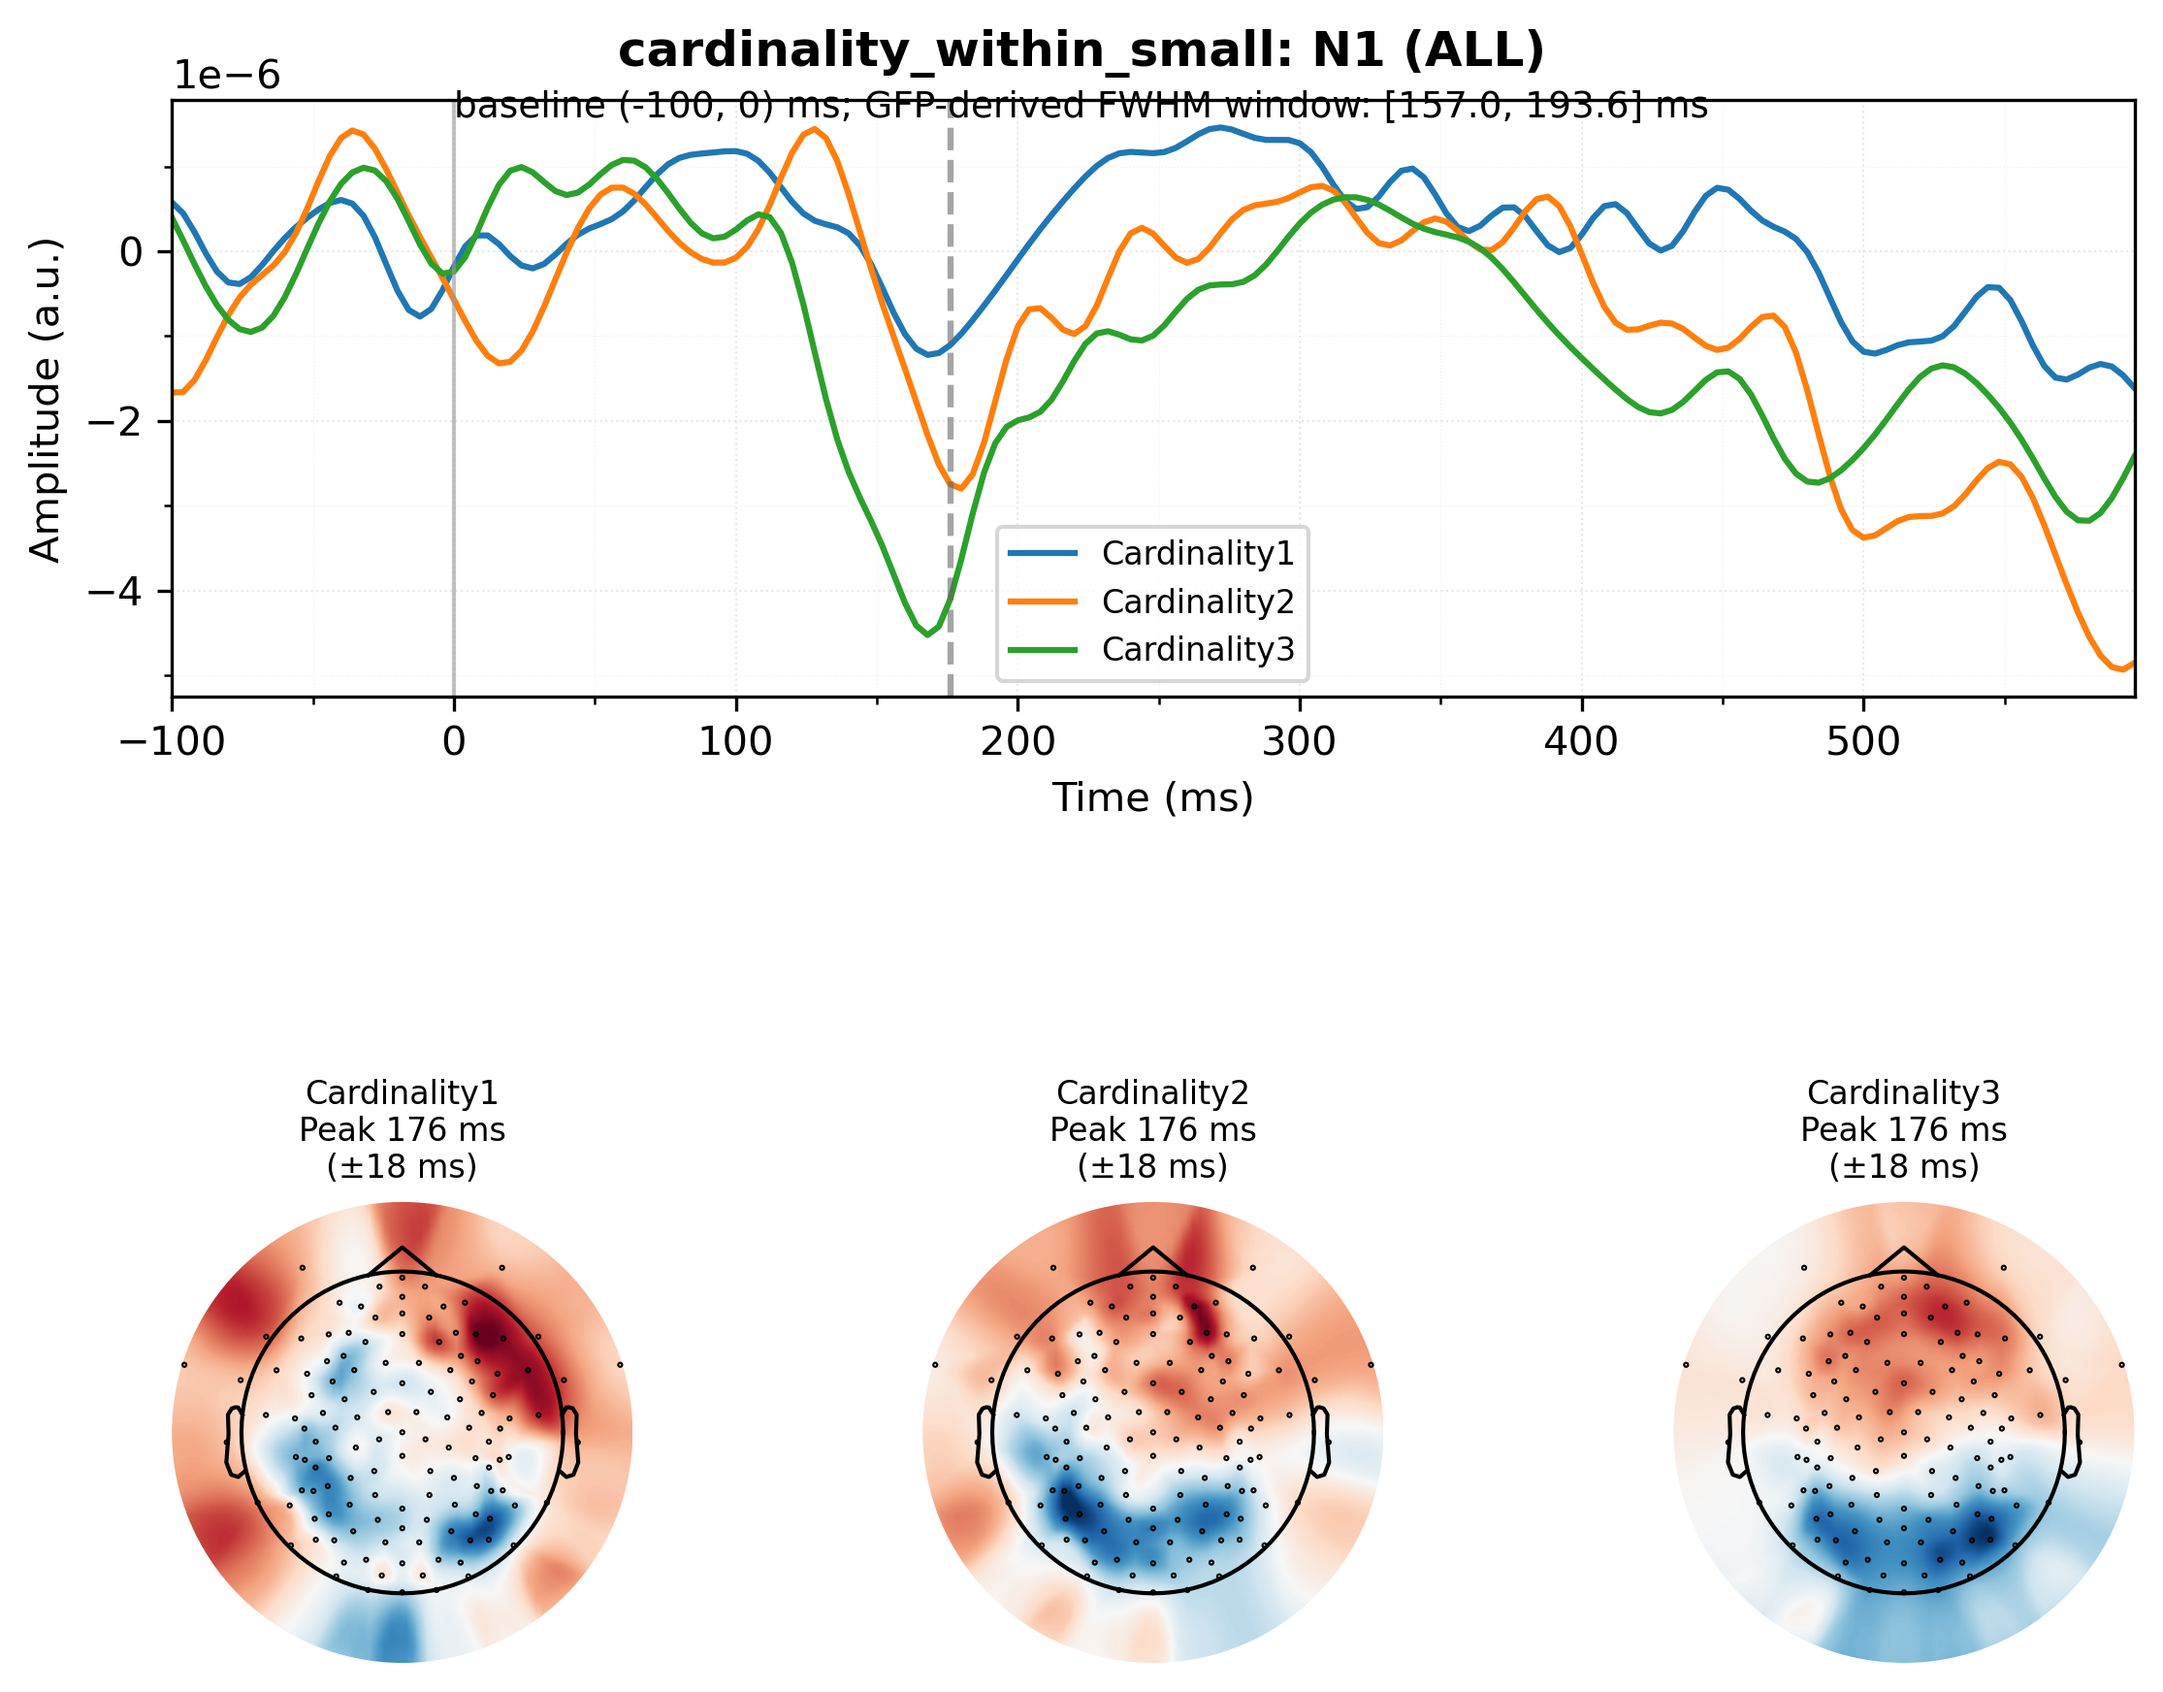
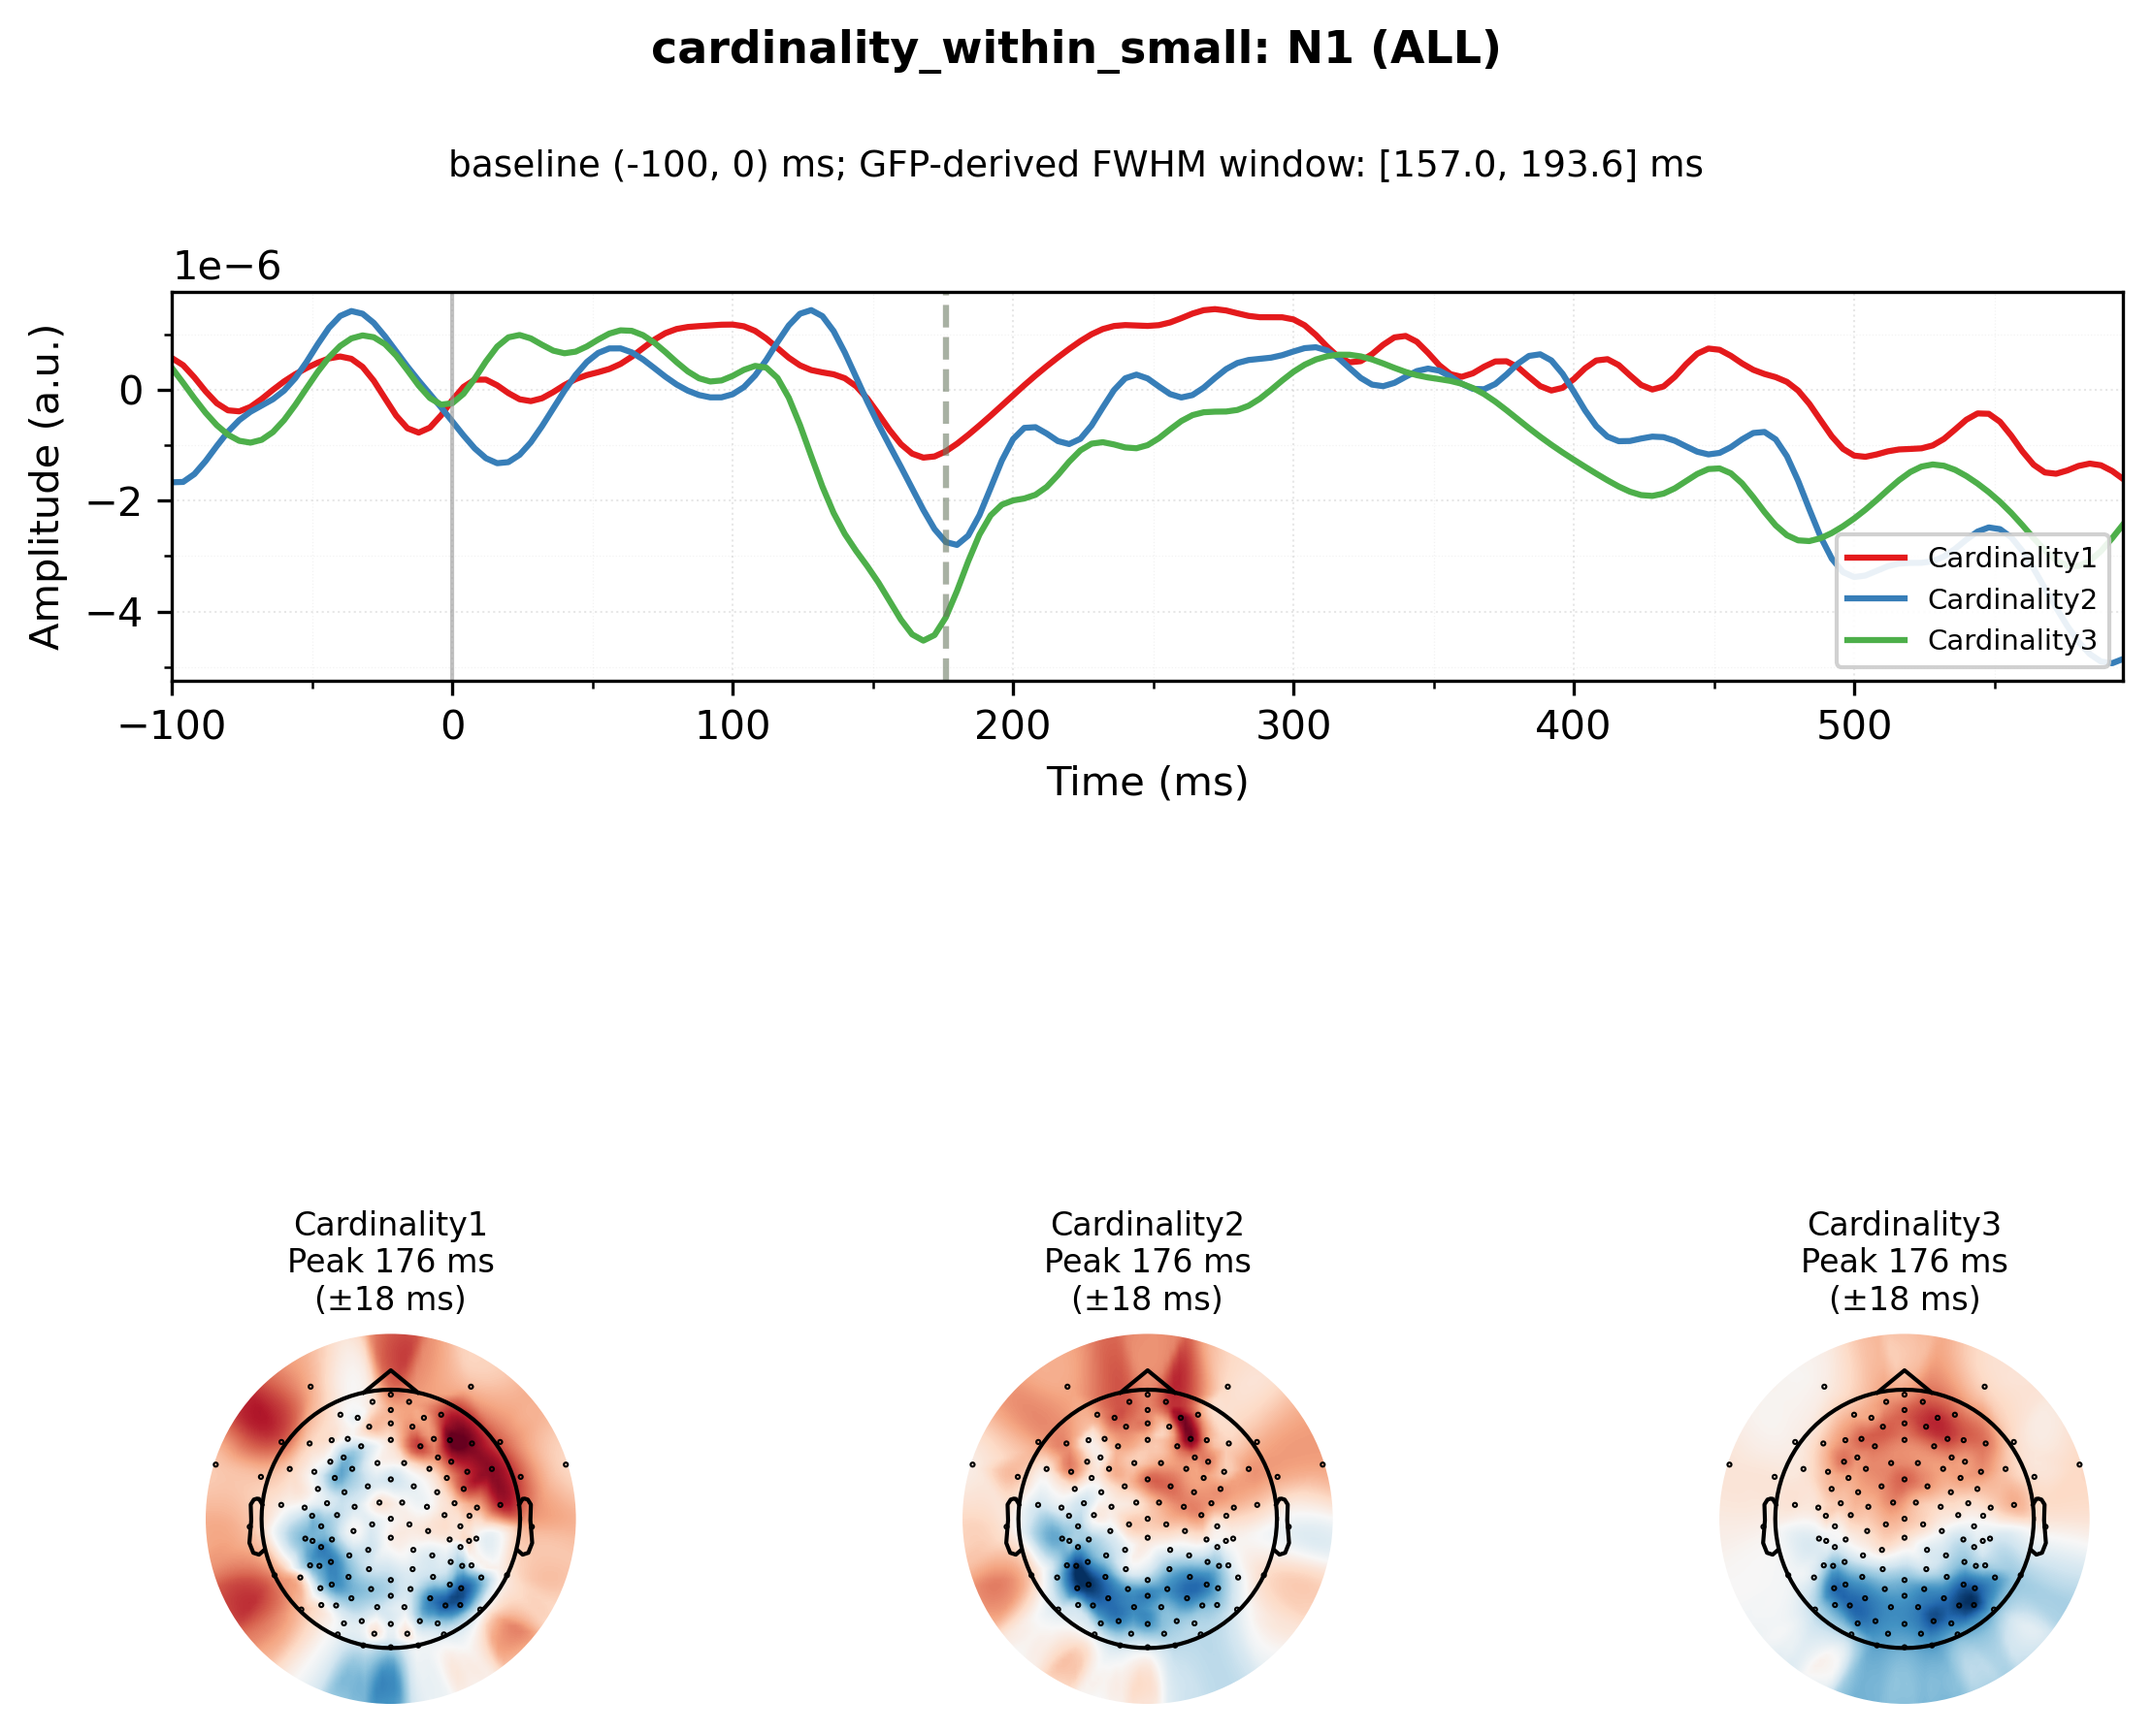
plot adjustments

diff --git a/src/eeg/plots.py b/src/eeg/plots.py
@@ -38,10 +38,10 @@ def make_erp_figure(
         matplotlib Figure object
     """
     # Widen the ERP overlay by ~15% for better latency granularity
-    fig, ax = plt.subplots(figsize=(6.9, 3.9), constrained_layout=True)
+    fig, ax = plt.subplots(figsize=(6.9, 4.2), constrained_layout=True)
     # Increase padding between suptitle and axes to avoid overlap
     try:
-        fig.set_constrained_layout_pads(h_pad=0.2, hspace=0.3, w_pad=0.12, wspace=0.2)
+        fig.set_constrained_layout_pads(h_pad=0.35, hspace=0.35, w_pad=0.14, wspace=0.22)
     except Exception:
         pass
     for label, y in curves_by_label.items():
@@ -80,12 +80,12 @@ def make_erp_figure(
     if subtitle:
         # Place subtitle just below the main title at figure level
         try:
-            fig.text(0.5, 0.93, subtitle, ha="center", fontsize=9)
+            fig.text(0.5, 0.90, subtitle, ha="center", fontsize=9)
         except Exception:
             pass
     if annotate_fallback:
         ax.text(0.99, 0.02, "Fallback window used", transform=ax.transAxes, fontsize=8, va="bottom", ha="right")
-    ax.legend(loc="best", fontsize=8)
+    ax.legend(loc="lower right", fontsize=7, frameon=True, framealpha=0.9)
     return fig
 
 
@@ -125,13 +125,14 @@ def make_component_figure(
 
     n_cols = max(1, len(topomap_by_label) or 1)
     # Make the composite figure wider while keeping height the same
-    fig = plt.figure(figsize=(7.475, 6.0), constrained_layout=True)
+    fig = plt.figure(figsize=(7.475, 6.4), constrained_layout=True)
     # Increase global padding to separate suptitle from axes titles
     try:
-        fig.set_constrained_layout_pads(h_pad=0.22, hspace=0.3, w_pad=0.12, wspace=0.2)
+        # Reserve ample top margin for title/subtitle, minimize gap between overlay and topomaps
+        fig.set_constrained_layout_pads(h_pad=0.70, hspace=0.04, w_pad=0.14, wspace=0.22)
     except Exception:
         pass
-    gs = fig.add_gridspec(2, n_cols, height_ratios=[2.2, 1.8])
+    gs = fig.add_gridspec(2, n_cols, height_ratios=[2.0, 1.9])
 
     # Check if any condition used fallback (for overlay annotation)
     any_fallback = False
@@ -167,7 +168,7 @@ def make_component_figure(
     # Figure-level main title
     if title:
         try:
-            fig.suptitle(title, fontsize=12, fontweight="bold", y=0.98)
+            t = fig.suptitle(title, fontsize=11, fontweight="bold", y=0.985, va="bottom")
         except Exception:
             pass
     ax_overlay.set_xlabel("Time (ms)")
@@ -190,12 +191,13 @@ def make_component_figure(
 
     # Add asterisk note to legend if any fallback used
     legend_title = "* = fallback window used" if any_fallback else None
-    ax_overlay.legend(loc="best", fontsize=8, title=legend_title, title_fontsize=7)
+    ax_overlay.legend(loc="lower right", fontsize=7, title=legend_title, title_fontsize=7, frameon=True, framealpha=0.9)
 
     # Figure-level subtitle to avoid occlusion
     if subtitle:
         try:
-            fig.text(0.5, 0.93, subtitle, ha="center", fontsize=9)
+            # Subtitle slightly below the figure title, anchored by its top edge
+            fig.text(0.5, 0.945, subtitle, ha="center", va="top", fontsize=9)
         except Exception:
             pass
 

diff --git a/docs/index.md b/docs/index.md
@@ -19,6 +19,7 @@ Click any thumbnail to view the full-size ERP plot with topographic maps.
 <tr><td>cardinality_within_small</td><td><a href='assets/plots/cardinality_within_small/cardinality_within_small-P1.png' data-lightbox aria-label='ERP overlay for P1 in cardinality_within_small'><img class='thumb' src='assets/plots/cardinality_within_small/cardinality_within_small-P1.png' alt='ERP overlay for P1 in cardinality_within_small' /></a></td><td><a href='assets/plots/cardinality_within_small/cardinality_within_small-N1.png' data-lightbox aria-label='ERP overlay for N1 in cardinality_within_small'><img class='thumb' src='assets/plots/cardinality_within_small/cardinality_within_small-N1.png' alt='ERP overlay for N1 in cardinality_within_small' /></a></td><td><a href='assets/plots/cardinality_within_small/cardinality_within_small-P3b.png' data-lightbox aria-label='ERP overlay for P3b in cardinality_within_small'><img class='thumb' src='assets/plots/cardinality_within_small/cardinality_within_small-P3b.png' alt='ERP overlay for P3b in cardinality_within_small' /></a></td></tr>
 <tr><td>from1_to_any</td><td><a href='assets/plots/from1_to_any/from1_to_any-P1.png' data-lightbox aria-label='ERP overlay for P1 in from1_to_any'><img class='thumb' src='assets/plots/from1_to_any/from1_to_any-P1.png' alt='ERP overlay for P1 in from1_to_any' /></a></td><td><a href='assets/plots/from1_to_any/from1_to_any-N1.png' data-lightbox aria-label='ERP overlay for N1 in from1_to_any'><img class='thumb' src='assets/plots/from1_to_any/from1_to_any-N1.png' alt='ERP overlay for N1 in from1_to_any' /></a></td><td><a href='assets/plots/from1_to_any/from1_to_any-P3b.png' data-lightbox aria-label='ERP overlay for P3b in from1_to_any'><img class='thumb' src='assets/plots/from1_to_any/from1_to_any-P3b.png' alt='ERP overlay for P3b in from1_to_any' /></a></td></tr>
 <tr><td>landing_on_1</td><td><a href='assets/plots/landing_on_1/landing_on_1-P1.png' data-lightbox aria-label='ERP overlay for P1 in landing_on_1'><img class='thumb' src='assets/plots/landing_on_1/landing_on_1-P1.png' alt='ERP overlay for P1 in landing_on_1' /></a></td><td><a href='assets/plots/landing_on_1/landing_on_1-N1.png' data-lightbox aria-label='ERP overlay for N1 in landing_on_1'><img class='thumb' src='assets/plots/landing_on_1/landing_on_1-N1.png' alt='ERP overlay for N1 in landing_on_1' /></a></td><td><a href='assets/plots/landing_on_1/landing_on_1-P3b.png' data-lightbox aria-label='ERP overlay for P3b in landing_on_1'><img class='thumb' src='assets/plots/landing_on_1/landing_on_1-P3b.png' alt='ERP overlay for P3b in landing_on_1' /></a></td></tr>
+<tr><td>landing_on_2</td><td><a href='assets/plots/landing_on_2/landing_on_2-P1.png' data-lightbox aria-label='ERP overlay for P1 in landing_on_2'><img class='thumb' src='assets/plots/landing_on_2/landing_on_2-P1.png' alt='ERP overlay for P1 in landing_on_2' /></a></td><td><a href='assets/plots/landing_on_2/landing_on_2-N1.png' data-lightbox aria-label='ERP overlay for N1 in landing_on_2'><img class='thumb' src='assets/plots/landing_on_2/landing_on_2-N1.png' alt='ERP overlay for N1 in landing_on_2' /></a></td><td><a href='assets/plots/landing_on_2/landing_on_2-P3b.png' data-lightbox aria-label='ERP overlay for P3b in landing_on_2'><img class='thumb' src='assets/plots/landing_on_2/landing_on_2-P3b.png' alt='ERP overlay for P3b in landing_on_2' /></a></td></tr>
 <tr><td>small_increasing_vs_decreasing</td><td><a href='assets/plots/small_increasing_vs_decreasing/small_increasing_vs_decreasing-P1.png' data-lightbox aria-label='ERP overlay for P1 in small_increasing_vs_decreasing'><img class='thumb' src='assets/plots/small_increasing_vs_decreasing/small_increasing_vs_decreasing-P1.png' alt='ERP overlay for P1 in small_increasing_vs_decreasing' /></a></td><td><a href='assets/plots/small_increasing_vs_decreasing/small_increasing_vs_decreasing-N1.png' data-lightbox aria-label='ERP overlay for N1 in small_increasing_vs_decreasing'><img class='thumb' src='assets/plots/small_increasing_vs_decreasing/small_increasing_vs_decreasing-N1.png' alt='ERP overlay for N1 in small_increasing_vs_decreasing' /></a></td><td><a href='assets/plots/small_increasing_vs_decreasing/small_increasing_vs_decreasing-P3b.png' data-lightbox aria-label='ERP overlay for P3b in small_increasing_vs_decreasing'><img class='thumb' src='assets/plots/small_increasing_vs_decreasing/small_increasing_vs_decreasing-P3b.png' alt='ERP overlay for P3b in small_increasing_vs_decreasing' /></a></td></tr>
 <tr><td>small_increasing_vs_decreasing_ACC1</td><td><a href='assets/plots/small_increasing_vs_decreasing_ACC1/small_increasing_vs_decreasing_ACC1-P1.png' data-lightbox aria-label='ERP overlay for P1 in small_increasing_vs_decreasing_ACC1'><img class='thumb' src='assets/plots/small_increasing_vs_decreasing_ACC1/small_increasing_vs_decreasing_ACC1-P1.png' alt='ERP overlay for P1 in small_increasing_vs_decreasing_ACC1' /></a></td><td><a href='assets/plots/small_increasing_vs_decreasing_ACC1/small_increasing_vs_decreasing_ACC1-N1.png' data-lightbox aria-label='ERP overlay for N1 in small_increasing_vs_decreasing_ACC1'><img class='thumb' src='assets/plots/small_increasing_vs_decreasing_ACC1/small_increasing_vs_decreasing_ACC1-N1.png' alt='ERP overlay for N1 in small_increasing_vs_decreasing_ACC1' /></a></td><td><a href='assets/plots/small_increasing_vs_decreasing_ACC1/small_increasing_vs_decreasing_ACC1-P3b.png' data-lightbox aria-label='ERP overlay for P3b in small_increasing_vs_decreasing_ACC1'><img class='thumb' src='assets/plots/small_increasing_vs_decreasing_ACC1/small_increasing_vs_decreasing_ACC1-P3b.png' alt='ERP overlay for P3b in small_increasing_vs_decreasing_ACC1' /></a></td></tr>
 </tbody>

diff --git a/docs/analysis/landing_on_2.md b/docs/analysis/landing_on_2.md
@@ -1,0 +1,18 @@
+# landing_on_2
+
+![figure](docs/assets/plots/landing_on_2/landing_on_2-collapsed_localizer.png)
+
+![figure](docs/assets/plots/landing_on_2/landing_on_2-P1.png)
+
+![figure](docs/assets/plots/landing_on_2/landing_on_2-N1.png)
+
+![figure](docs/assets/plots/landing_on_2/landing_on_2-P3b.png)
+
+
+## Notes
+
+- GFP-based collapsed localizer analysis with 18 subject-condition combinations.
+- Components analyzed: P1, N1, P3b
+- P1: Peak at 104 ms, FWHM window [94.6, 109.8] ms (width: 15.2 ms)
+- N1: Peak at 176 ms, FWHM window [150.9, 197.9] ms (width: 47.0 ms)
+- P3b: Peak at 568 ms, FWHM window [560.2, 579.9] ms (width: 19.7 ms)

diff --git a/README.md b/README.md
@@ -156,7 +156,7 @@ roi:
 # Plotting options
 plots:
   dpi: 300
-  colors: ["#e41a1c", "#377eb8", "#4daf4a"]
+  colors: ["#e41a1c", "#377eb8", "#4daf4a", "#984ea3", "#6a3d9a", "#ffff33"]
   linestyles:
     NC: "-"
     Decrease: ":"
